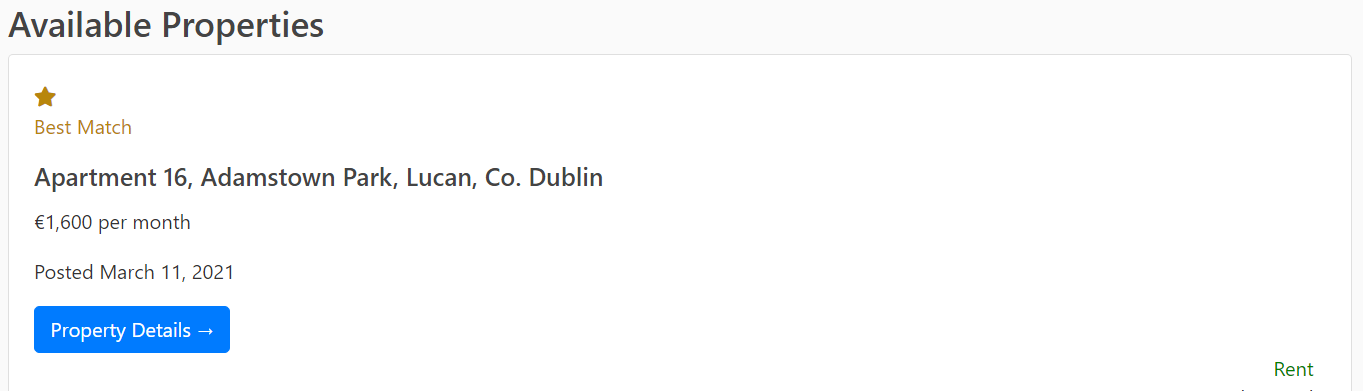
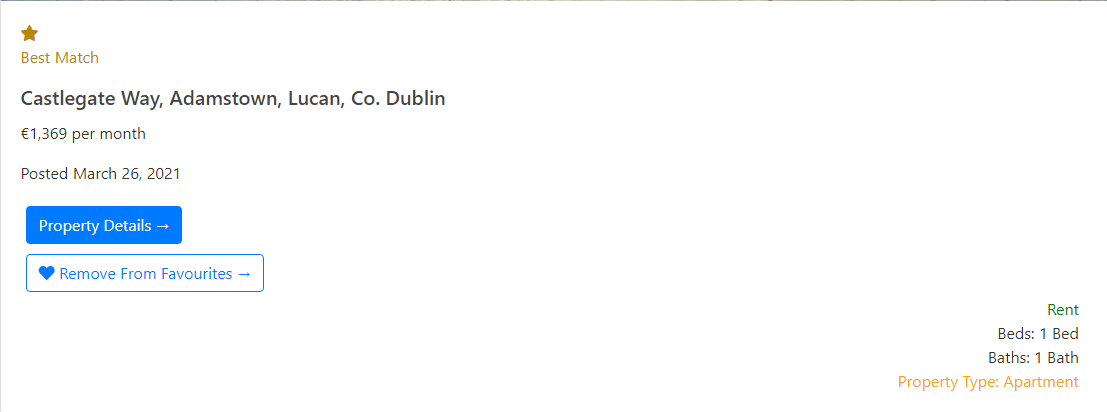
UI tidying before deployment

diff --git a/world/templates/world/about.html b/world/templates/world/about.html
@@ -20,12 +20,26 @@
                 <h5 class="card-title">Find Your Ideal Property</h5>
                 <p class="card-text">Use our search engine to find the ideal property for
                 you. Enter your chosen area, the type of property/properties you would like,
-                and your maximum rent limit per month. In the Criteria Priority section, our
+                your maximum rent limit per month, and your ideal number of bedrooms and bathrooms.
+                In the Criteria Priority section, our
                 multi-criteria evaluation algorithm will filter your results based on your needs
                 and provide you with your Best Match.</p>
                 <a href="{% url 'world-search' %}" class="btn btn-primary">Find Properties</a>
               </div>
-                <img class="card-img-bottom" src="{% static 'images/Search.png' %}" alt="Card image cap">
+                <img class="card-img-bottom" id = "search" alt="Card image cap">
+
+                <style>
+                    @media only screen and (min-width: 601px) {
+                        #search{
+                            content:url("{% static 'images/Search.png' %}");
+                        }
+                    }
+                    @media only screen and (max-width: 600px) {
+                        #search{
+                            content:url("{% static 'images/MobileSearch.png' %}");
+                        }
+                    }
+                </style>
             </div>
             <br>
 
@@ -36,9 +50,23 @@
                 <p class="card-text">Based on your input on the Find Properties page, our algorithm will
                     perform multi-criteria evaluation to analyse all properties in your chosen area. Your results will
                     be displayed in order of how closely they meet your needs, with a Best Match displayed at the top.
+                    From here, you can view more details about the property, or add/remove the property from your Favourites list
+                    on your profile page.
                 </p>
               </div>
-                <img class="card-img-bottom" src="{% static 'images/Best Match.png' %}" alt="Card image cap">
+                <img class="card-img-bottom" id = "bestmatch" alt="Card image cap">
+                <style>
+                    @media only screen and (min-width: 601px) {
+                        #bestmatch{
+                            content:url("{% static 'images/Best Match.png' %}");
+                        }
+                    }
+                    @media only screen and (max-width: 600px) {
+                        #bestmatch{
+                            content:url("{% static 'images/Mobile Best Match.png' %}");
+                        }
+                    }
+                </style>
             </div>
             <br>
 
@@ -48,10 +76,22 @@
                 <h5 class="card-title">View Property Information</h5>
                 <p class="card-text">
                     You can view information for individual properties from your results. Detailed information including
-                    location on a map, property images, and a link for finding nearby amenities can be accessed.
+                    location on a map, property images, a description of the listing, and a link for finding nearby amenities can be accessed.
                 </p>
               </div>
-                <img class="card-img-bottom" src="{% static 'images/PropertyInfo.png' %}" alt="Card image cap">
+                <img class="card-img-bottom" id = "propdetails" alt="Card image cap">
+                <style>
+                    @media only screen and (min-width: 601px) {
+                        #propdetails{
+                            content:url("{% static 'images/PropertyInfo.png' %}");
+                        }
+                    }
+                    @media only screen and (max-width: 600px) {
+                        #propdetails{
+                            content:url("{% static 'images/MobilePropertyInfo.png' %}");
+                        }
+                    }
+                </style>
             </div>
             <br>
 
@@ -61,12 +101,23 @@
                 <h5 class="card-title">Finding Amenities</h5>
                 <p class="card-text">
                     Using the Nearby Amenities section, you can view nearby amenities to a property in a given radius.
-                    From 500m to 10km, you can get an idea of locations related to entertainment, healthcare and
+                    From 500m to 5km, you can get an idea of locations related to entertainment, healthcare and
                     education near the property you may consider enquiring about.
                 </p>
               </div>
-                <img class="card-img-bottom" src="{% static 'images/Amenity Radius.png' %}" alt="Card image cap">
-                <img class="card-img-bottom" src="{% static 'images/Amenities.png' %}" alt="Card image cap">
+                <img class="card-img-bottom" id = "amenities" alt="Card image cap">
+                <style>
+                    @media only screen and (min-width: 601px) {
+                        #amenities{
+                            content:url("{% static 'images/Amenities.png' %}");
+                        }
+                    }
+                    @media only screen and (max-width: 600px) {
+                        #amenities{
+                            content:url("{% static 'images/MobileAmenities.png' %}");
+                        }
+                    }
+                </style>
             </div>
             <br>
 

diff --git a/world/templates/world/search.html b/world/templates/world/search.html
@@ -264,6 +264,7 @@
         <br>
         <br>
 
+        <!-- Available Properties -->
         <div id = "info">
             {% if form.is_valid and not noProp %}
             <h3> Available Properties </h3>
@@ -300,13 +301,18 @@
                     <p class="card-text">{{ prop.rent }}</p>
                     <p class="card-text">Posted {{ prop.date_posted|date:"F d, Y" }}</p>
                     <a href="{% url 'prop-detail' prop.id %}" class="btn btn-primary prop-button">Property Details &rarr;</a>
+                    <br>
 
                   <!-- Favourites only show if logged in, and will show if already in favourites-->
                       {% if user.is_authenticated %}
                           {% if prop.in_favourites %}
-                            <a href="{% url 'remove-fave' prop.id %}" class="btn btn-primary prop-button"> Remove From Favourites &rarr;</a>
+{#                            <a href="{% url 'remove-fave' prop.id %}" class="btn btn-primary prop-button"> Remove From Favourites &rarr;</a>#}
+                              <a href="{% url 'remove-fave' prop.id %}" class="btn btn-outline-primary prop-button">
+                                  <i class="fas fa-heart"></i> Remove From Favourites &rarr;</a>
                           {% else %}
-                            <a href="{% url 'add-fave' prop.id %}" class="btn btn-primary prop-button"> Add to Favourites &rarr;</a>
+{#                            <a href="{% url 'add-fave' prop.id %}" class="btn btn-primary prop-button"> Add to Favourites &rarr;</a>#}
+                              <a href="{% url 'add-fave' prop.id %}" class = "btn btn-outline-primary prop-button">
+                                  <i class="far fa-heart" ></i> Add to Favourites &rarr;</a>
                           {% endif %}
                       {% endif %}
 
@@ -325,17 +331,39 @@
                                     {% endif %}
                                 }
                             </style>
-                      <li> Beds: {{ prop.beds }}</li>
-                      <li> Baths: {{ prop.baths }}</li>
+                      <li class = "bed_rec"> Beds: {{ prop.beds }}</li>
+                      <style>
+                            .bed_rec{
+                                {% if prop.bed_sim >= 0.8  %}
+                                    color:green;
+                                {% elif prop.bed_sim < 0.8 and prop.bed_sim >= 0.6 %}
+                                    color:orange;
+                                {% else %}
+                                    color:red;
+                                {% endif %}
+                            }
+                      </style>
+                      <li class = "bath_rec"> Baths: {{ prop.baths }}</li>
+                      <style>
+                            .bath_rec{
+                                {% if prop.bath_sim >= 0.8  %}
+                                    color:green;
+                                {% elif prop.bath_sim < 0.8 and prop.bath_sim >= 0.6 %}
+                                    color:orange;
+                                {% else %}
+                                    color:red;
+                                {% endif %}
+                            }
+                      </style>
                       <li class = "house_rec"> Property Type: {{ prop.house }}</li>
                       <style>
-                                .house_rec{
-                                    {% if prop.house_sim > 0.8 %}
-                                        color:green;
-                                    {% else %}
-                                        color:orange;
-                                    {% endif %}
-                                }
+                            .house_rec{
+                                {% if prop.house_sim > 0.8 %}
+                                    color:green;
+                                {% else %}
+                                    color:orange;
+                                {% endif %}
+                            }
                       </style>
                       </ul>
                   </div>

diff --git a/users/templates/users/profile.html b/users/templates/users/profile.html
@@ -6,8 +6,8 @@
 
     <div class = "container">
         <div class="row">
-            <div class = "col-md-9">
-                <div class = "card" style="width: 70vw; margin-bottom:20px;">
+            <div class = "col">
+                <div class = "card" style="width: 100%; margin-bottom:20px;">
                     <div class = "card-body">
                         <div class = "profile-username">
                             {{ user.username }}
@@ -21,7 +21,7 @@
                     <h4>Your Favourites</h4>
                     {% if user_faves %}
                         {% for fave in user_faves %}
-                            <div class="card prop-card" style="width: 70vw;"
+                            <div class="card prop-card" style="width: 100%;"
                                  address = "{{ fave.house.address }}"
                                  rent = "{{ fave.house.rent }}"
                                  lat = "{{ fave.house.lat }}"
@@ -39,7 +39,9 @@
                                 <p class="card-text">{{ fave.house.rent }}</p>
                                 <p class="card-text">Posted {{ fave.house.date_posted|date:"F d, Y" }}</p>
                                 <a href="{% url 'prop-detail' fave.house.id %}" class="btn btn-primary prop-button">Property Details &rarr;</a>
-                                <a href="{% url 'remove-fave' fave.house.id %}" class="btn btn-primary prop-button"> Remove from Favourites &rarr;</a>
+                                <br>
+                                <a href="{% url 'remove-fave' fave.house.id %}" class="btn btn-outline-primary prop-button">
+                                  <i class="fas fa-heart"></i> Remove From Favourites &rarr;</a>
                                   <ul class = "ul_card">
                                       <li> Beds: {{ fave.house.beds }}</li>
                                       <li> Baths: {{ fave.house.baths }}</li>
